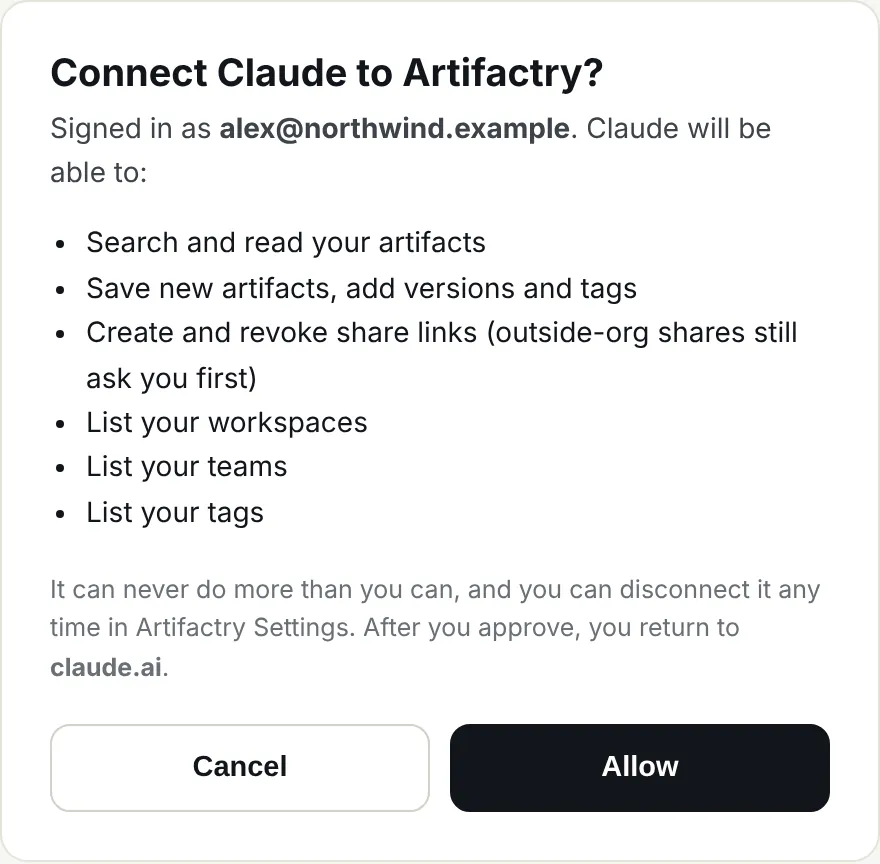
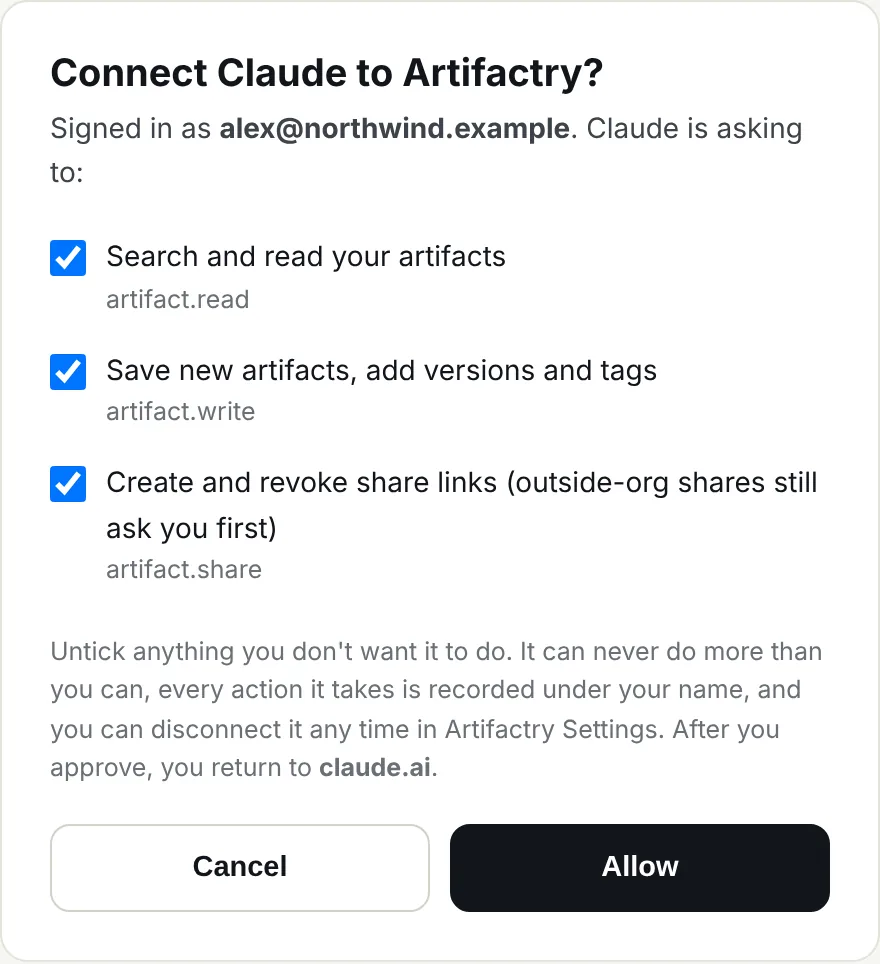
User guide: re-shoot token and consent screenshots from the new screens (#18)
- New access token sheet, the shown-once token, Profile's apps and tokens
  list, a token's detail with recent activity, and the consent page with
  per-scope checkboxes
- Profile names an "Other MCP client" sign-in by the app's own name
  (Cursor) instead of "An AI app"

Claude-Session: https://claude.ai/code/session_01NtfJocyAvARBvpEJLmximB

diff --git a/site/docs/index.html b/site/docs/index.html
@@ -221,7 +221,7 @@
             <p>Most apps use <strong>OAuth sign-in</strong>: you paste the address, a window opens, you sign in to Artifactry and choose <strong>Allow</strong>. There's no token to copy, and access refreshes itself. Step-by-step guides for each app are in the <a href="#mcp">MCP Integration</a> tab.</p>
             <p>In the app, choose <strong>Connect an AI tool</strong> on Home (or <strong>Profile → Set up Claude, ChatGPT, Cursor and more</strong>). Copy the server URL, then open the tool you use for its steps.</p>
             <figure class="shot shot-video is-paused"><video data-clip poster="/assets/guide/connect-poster.webp" width="1280" height="800" muted loop playsinline preload="none" tabindex="0" aria-label="Animation: opening the Claude setup steps and copying the server URL. Click to play or pause."><source src="/assets/guide/connect.webm" type="video/webm"><source src="/assets/guide/connect.mp4" type="video/mp4"></video><figcaption><span class="clip-badge">Animation</span>The Connect page: one URL for every tool, with short steps for each.</figcaption></figure>
-            <figure class="shot shot-narrow"><a href="/assets/guide/oauth-consent.webp" target="_blank" rel="noopener"><img src="/assets/guide/oauth-consent.webp" width="880" height="864" alt="The Connect Claude to Artifactry? consent screen listing what Claude will be able to do, with Cancel and Allow" loading="lazy" decoding="async"></a><figcaption>What you see when an AI app asks to connect. It lists exactly what the app may do; choose <strong>Allow</strong> to finish.</figcaption></figure>
+            <figure class="shot shot-narrow"><a href="/assets/guide/oauth-consent.webp" target="_blank" rel="noopener"><img src="/assets/guide/oauth-consent.webp" width="880" height="964" alt="The Connect Claude to Artifactry? consent screen with a ticked checkbox for each permission Claude asks for, and Cancel and Allow" loading="lazy" decoding="async"></a><figcaption>What you see when an AI app asks to connect. Untick anything you don't want it to do, then choose <strong>Allow</strong>.</figcaption></figure>
             <h3>What your AI can do once connected</h3>
             <table>
               <thead><tr><th>Job</th><th>Tools</th><th>Example request</th></tr></thead>
@@ -242,9 +242,14 @@
             <ol class="steps-list">
               <li>In the app, open <strong>Profile</strong> and scroll to <strong>Access tokens</strong>.</li>
               <li>Choose <strong>Create an access token</strong> and give it a name you'll recognise, such as "Nightly backup script".</li>
-              <li>Tick only the permissions it needs (read, write and share are ticked to start). A read-only script needs just <code>artifact.read</code>. Pick when it expires: 7, 30, 90 (the default) or 365 days, or never.</li>
-              <li>Copy the token straight away. <strong>It is shown once</strong> and stored only as a hash, so it can't be shown again. Tokens start with <code>art_pat_</code>, and the tool sends it as <code>Authorization: Bearer &lt;token&gt;</code>.</li>
+              <li>Tick only the permissions it needs (read, write and share are ticked to start). A read-only script needs just <code>artifact.read</code>. Pick when it expires: 7, 30, 90 (the default) or 365 days, or never.
+                <figure class="shot shot-narrow"><a href="/assets/guide/token-scopes.webp" target="_blank" rel="noopener"><img src="/assets/guide/token-scopes.webp" width="1120" height="1304" alt="The New access token sheet with a name, an expiry of 90 days and checkboxes for read, write and share" loading="lazy" decoding="async"></a><figcaption>Name the token, choose when it expires and what it may do.</figcaption></figure>
+              </li>
+              <li>Copy the token straight away. <strong>It is shown once</strong> and stored only as a hash, so it can't be shown again. Tokens start with <code>art_pat_</code>, and the tool sends it as <code>Authorization: Bearer &lt;token&gt;</code>.
+                <figure class="shot shot-narrow"><a href="/assets/guide/token-created.webp" target="_blank" rel="noopener"><img src="/assets/guide/token-created.webp" width="1120" height="824" alt="The Copy your token sheet showing the new token, a warning that it cannot be shown again, and the MCP endpoint" loading="lazy" decoding="async"></a><figcaption>The only time the token is shown. Copy it into your script or tool.</figcaption></figure>
+              </li>
             </ol>
+            <figure class="shot"><a href="/assets/guide/connected-apps.webp" target="_blank" rel="noopener"><img src="/assets/guide/connected-apps.webp" width="1624" height="868" alt="Profile showing Connected AI apps (Cursor and Claude, each signed in) and Access tokens (Nightly backup script and GitHub Actions publish)" loading="lazy" decoding="async"></a><figcaption><strong>Profile</strong> lists every signed-in AI app and every access token, with when each was last used.</figcaption></figure>
             <h3>Permissions (scopes)</h3>
             <table>
               <thead><tr><th>Scope</th><th>Allows</th></tr></thead>
@@ -259,6 +264,7 @@
               </tbody>
             </table>
             <div class="callout warn"><span class="callout-icon" aria-hidden="true">⚠</span><div><p>Treat a token like a password. Don't paste it into chats, commit it to Git or share it. If one leaks, open <strong>Profile → Access tokens</strong>, choose it and <strong>Revoke token</strong>; it stops working at once and your other tokens keep working. Each token shows when it was last used and its recent tool calls.</p></div></div>
+            <figure class="shot shot-narrow"><a href="/assets/guide/token-detail.webp" target="_blank" rel="noopener"><img src="/assets/guide/token-detail.webp" width="1120" height="722" alt="A token named Nightly backup script with its prefix, dates, permissions, recent activity and a Revoke token button" loading="lazy" decoding="async"></a><figcaption>Open a token to see what it may do and what it did recently, or to revoke it.</figcaption></figure>
           </section>
 
           <section id="http">

diff --git a/site/pages/resources.html b/site/pages/resources.html
@@ -170,7 +170,7 @@
             <p>Most apps use <strong>OAuth sign-in</strong>: you paste the address, a window opens, you sign in to Artifactry and choose <strong>Allow</strong>. There's no token to copy, and access refreshes itself. Step-by-step guides for each app are in the <a href="#mcp">MCP Integration</a> tab.</p>
             <p>In the app, choose <strong>Connect an AI tool</strong> on Home (or <strong>Profile → Set up Claude, ChatGPT, Cursor and more</strong>). Copy the server URL, then open the tool you use for its steps.</p>
             <figure class="shot shot-video is-paused"><video data-clip poster="/assets/guide/connect-poster.webp" width="1280" height="800" muted loop playsinline preload="none" tabindex="0" aria-label="Animation: opening the Claude setup steps and copying the server URL. Click to play or pause."><source src="/assets/guide/connect.webm" type="video/webm"><source src="/assets/guide/connect.mp4" type="video/mp4"></video><figcaption><span class="clip-badge">Animation</span>The Connect page: one URL for every tool, with short steps for each.</figcaption></figure>
-            <figure class="shot shot-narrow"><a href="/assets/guide/oauth-consent.webp" target="_blank" rel="noopener"><img src="/assets/guide/oauth-consent.webp" width="880" height="864" alt="The Connect Claude to Artifactry? consent screen listing what Claude will be able to do, with Cancel and Allow" loading="lazy" decoding="async"></a><figcaption>What you see when an AI app asks to connect. It lists exactly what the app may do; choose <strong>Allow</strong> to finish.</figcaption></figure>
+            <figure class="shot shot-narrow"><a href="/assets/guide/oauth-consent.webp" target="_blank" rel="noopener"><img src="/assets/guide/oauth-consent.webp" width="880" height="964" alt="The Connect Claude to Artifactry? consent screen with a ticked checkbox for each permission Claude asks for, and Cancel and Allow" loading="lazy" decoding="async"></a><figcaption>What you see when an AI app asks to connect. Untick anything you don't want it to do, then choose <strong>Allow</strong>.</figcaption></figure>
             <h3>What your AI can do once connected</h3>
             <table>
               <thead><tr><th>Job</th><th>Tools</th><th>Example request</th></tr></thead>
@@ -191,9 +191,14 @@
             <ol class="steps-list">
               <li>In the app, open <strong>Profile</strong> and scroll to <strong>Access tokens</strong>.</li>
               <li>Choose <strong>Create an access token</strong> and give it a name you'll recognise, such as "Nightly backup script".</li>
-              <li>Tick only the permissions it needs (read, write and share are ticked to start). A read-only script needs just <code>artifact.read</code>. Pick when it expires: 7, 30, 90 (the default) or 365 days, or never.</li>
-              <li>Copy the token straight away. <strong>It is shown once</strong> and stored only as a hash, so it can't be shown again. Tokens start with <code>art_pat_</code>, and the tool sends it as <code>Authorization: Bearer &lt;token&gt;</code>.</li>
+              <li>Tick only the permissions it needs (read, write and share are ticked to start). A read-only script needs just <code>artifact.read</code>. Pick when it expires: 7, 30, 90 (the default) or 365 days, or never.
+                <figure class="shot shot-narrow"><a href="/assets/guide/token-scopes.webp" target="_blank" rel="noopener"><img src="/assets/guide/token-scopes.webp" width="1120" height="1304" alt="The New access token sheet with a name, an expiry of 90 days and checkboxes for read, write and share" loading="lazy" decoding="async"></a><figcaption>Name the token, choose when it expires and what it may do.</figcaption></figure>
+              </li>
+              <li>Copy the token straight away. <strong>It is shown once</strong> and stored only as a hash, so it can't be shown again. Tokens start with <code>art_pat_</code>, and the tool sends it as <code>Authorization: Bearer &lt;token&gt;</code>.
+                <figure class="shot shot-narrow"><a href="/assets/guide/token-created.webp" target="_blank" rel="noopener"><img src="/assets/guide/token-created.webp" width="1120" height="824" alt="The Copy your token sheet showing the new token, a warning that it cannot be shown again, and the MCP endpoint" loading="lazy" decoding="async"></a><figcaption>The only time the token is shown. Copy it into your script or tool.</figcaption></figure>
+              </li>
             </ol>
+            <figure class="shot"><a href="/assets/guide/connected-apps.webp" target="_blank" rel="noopener"><img src="/assets/guide/connected-apps.webp" width="1624" height="868" alt="Profile showing Connected AI apps (Cursor and Claude, each signed in) and Access tokens (Nightly backup script and GitHub Actions publish)" loading="lazy" decoding="async"></a><figcaption><strong>Profile</strong> lists every signed-in AI app and every access token, with when each was last used.</figcaption></figure>
             <h3>Permissions (scopes)</h3>
             <table>
               <thead><tr><th>Scope</th><th>Allows</th></tr></thead>
@@ -208,6 +213,7 @@
               </tbody>
             </table>
             <div class="callout warn"><span class="callout-icon" aria-hidden="true">⚠</span><div><p>Treat a token like a password. Don't paste it into chats, commit it to Git or share it. If one leaks, open <strong>Profile → Access tokens</strong>, choose it and <strong>Revoke token</strong>; it stops working at once and your other tokens keep working. Each token shows when it was last used and its recent tool calls.</p></div></div>
+            <figure class="shot shot-narrow"><a href="/assets/guide/token-detail.webp" target="_blank" rel="noopener"><img src="/assets/guide/token-detail.webp" width="1120" height="722" alt="A token named Nightly backup script with its prefix, dates, permissions, recent activity and a Revoke token button" loading="lazy" decoding="async"></a><figcaption>Open a token to see what it may do and what it did recently, or to revoke it.</figcaption></figure>
           </section>
 
           <section id="http">

diff --git a/src/lib/tokens.ts b/src/lib/tokens.ts
@@ -160,7 +160,12 @@ export async function listAccess(db: D1Database, userId: string) {
     .filter((r) => r.kind === 'OAUTH')
     .map((r) => ({
       id: r.id,
-      app: CLIENT_LABELS[r.integration_id] ?? 'An AI app',
+      // "Other MCP client" has no brand of its own, so the app's own name
+      // (Cursor, Windsurf) is the better label in the person's own list.
+      app:
+        r.integration_id === 'int_other' && (r.client_name ?? r.oauth_client_name)
+          ? (r.client_name ?? r.oauth_client_name)!
+          : CLIENT_LABELS[r.integration_id] ?? 'An AI app',
       // What the app reported during its MCP handshake, else what it
       // registered as ("Claude Code", "Cursor").
       client: r.client_name ?? r.oauth_client_name ?? null,
